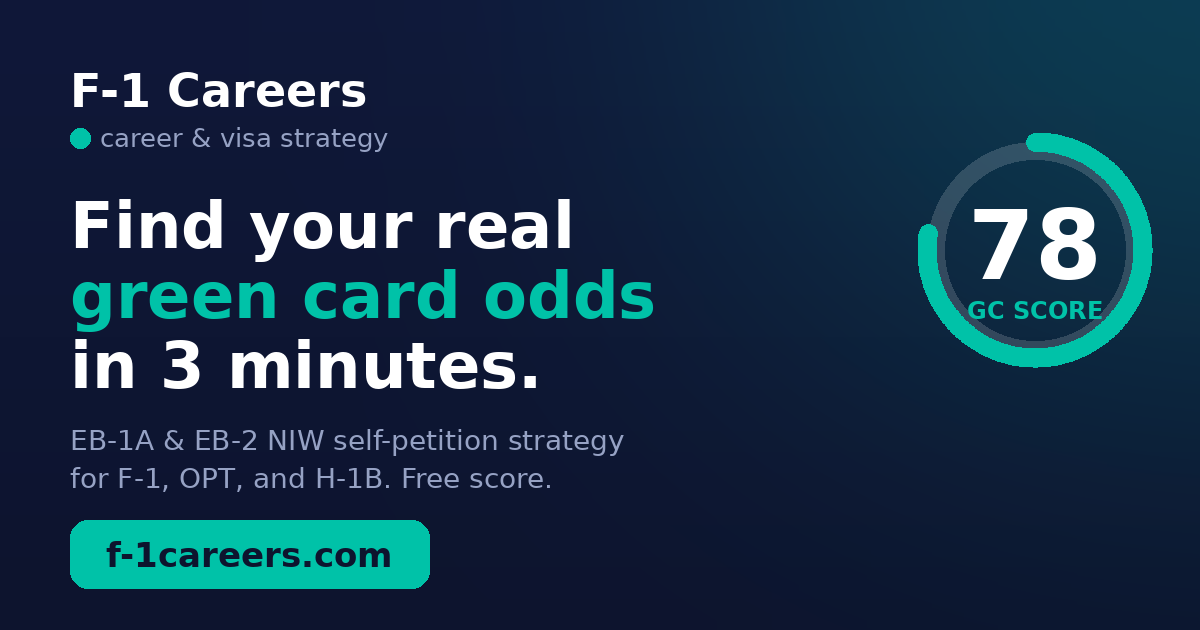
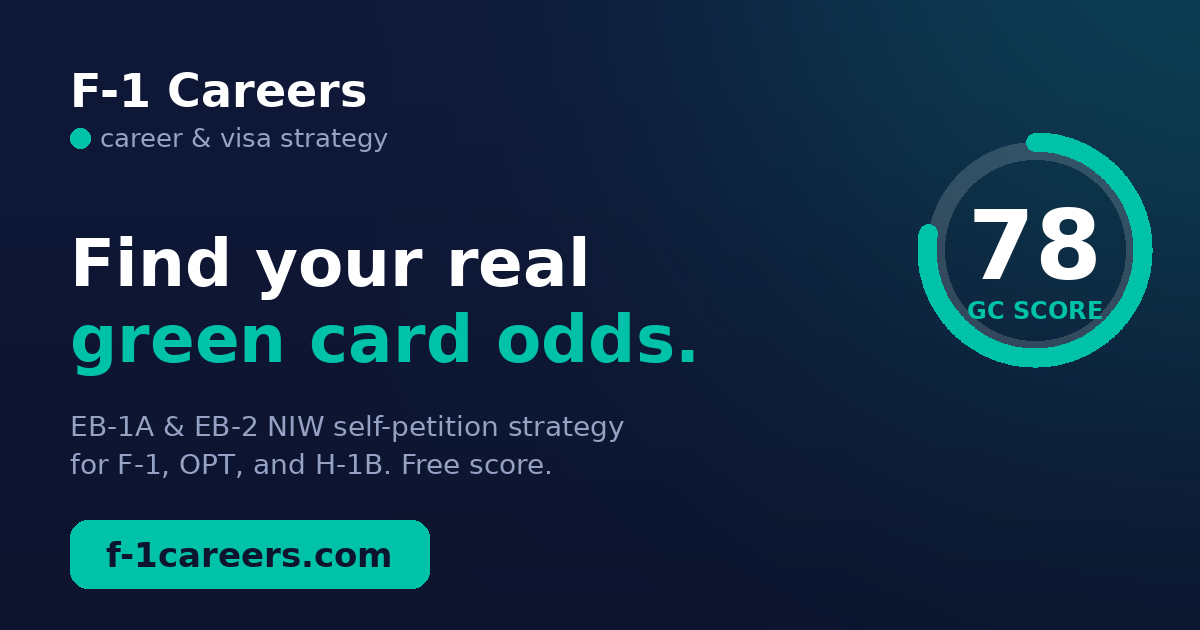
Remove time-to-result claims (3 min / 2 min / 15 min / 'in minutes') from copy, OG image, and metadata, they trivialize the platform

Changed region(s): [[0.0617, 0.3016, 0.5858, 0.6333], [0.0617, 0.6635, 0.5242, 0.7841]]

diff --git a/app/layout.tsx b/app/layout.tsx
@@ -14,7 +14,7 @@ export const metadata: Metadata = {
     default: 'F-1 Careers, Green Card Strategy for International Professionals',
     template: '%s | F-1 Careers',
   },
-  description: 'Find your real EB-1A and EB-2 NIW green card odds in minutes. Self-petition strategy for international students and professionals on F-1, OPT, and H-1B. Free score.',
+  description: 'Find your real EB-1A and EB-2 NIW green card odds. Self-petition strategy for international students and professionals on F-1, OPT, and H-1B. Free score.',
   keywords: [
     'EB-1A', 'EB-2 NIW', 'national interest waiver', 'green card', 'F-1 visa',
     'OPT', 'H-1B', 'self-petition', 'Dhanasar', 'extraordinary ability',
@@ -26,13 +26,13 @@ export const metadata: Metadata = {
     siteName: 'F-1 Careers',
     url: 'https://www.f-1careers.com',
     title: 'F-1 Careers, Green Card Strategy for International Professionals',
-    description: 'Find your real EB-1A and EB-2 NIW green card odds in minutes. Free score, built for F-1, OPT, and H-1B.',
+    description: 'Find your real EB-1A and EB-2 NIW green card odds. Free score, built for F-1, OPT, and H-1B.',
     images: [{ url: '/og.png', width: 1200, height: 630, alt: 'F-1 Careers, Green Card Strategy' }],
   },
   twitter: {
     card: 'summary_large_image',
     title: 'F-1 Careers, Green Card Strategy',
-    description: 'Find your real EB-1A and EB-2 NIW green card odds in minutes. Free score.',
+    description: 'Find your real EB-1A and EB-2 NIW green card odds. Free score.',
     images: ['/og.png'],
   },
 }

diff --git a/app/stay-score/page.tsx b/app/stay-score/page.tsx
@@ -422,7 +422,7 @@ export default function RiskScorePage() {
           </div>
           <p className="text-mid text-sm max-w-md mx-auto leading-relaxed">
             Adjustment of status is now officially discretionary. Duration of Status is ending. SEVIS terminations are being enforced.
-            This tool scores your exposure across all active risk factors, in under 2 minutes.
+            This tool scores your exposure across all active risk factors.
           </p>
         </div>
 
@@ -651,7 +651,7 @@ export default function RiskScorePage() {
               className="w-full btn-teal py-4 text-base font-bold disabled:opacity-40">
               Calculate my Risk Score →
             </button>
-            <p className="text-xs text-center text-mid">Free · No login · Under 2 minutes</p>
+            <p className="text-xs text-center text-mid">Free · No login</p>
           </div>
         )}
 

diff --git a/app/(app)/strategy/report/[id]/GeneratingView.tsx b/app/(app)/strategy/report/[id]/GeneratingView.tsx
@@ -195,7 +195,7 @@ export default function GeneratingView({ reportId, reportType }: Props) {
         <div>
           <h1 className="text-xl font-bold text-navy">Building your strategy report…</h1>
           <p className="text-sm text-mid mt-1">
-            Deep analysis of your profile · typically <strong>2–4 minutes</strong>
+            A deep, criterion-by-criterion analysis of your profile is underway. This is thorough work, please hold on.
           </p>
         </div>
       </div>

diff --git a/app/page.tsx b/app/page.tsx
@@ -408,7 +408,7 @@ export default async function Home() {
           </div>
           <div className="grid sm:grid-cols-3 gap-10">
             {[
-              { step: '01', title: 'Answer the questionnaire', body: 'Rate your evidence against each USCIS criterion. Takes about 15 minutes. Your profile data pre-fills where possible.' },
+              { step: '01', title: 'Answer the questionnaire', body: 'Rate your evidence against each USCIS criterion. Your profile data pre-fills where possible.' },
               { step: '02', title: 'Get your free preview', body: 'See your top visa pathway, overall profile strength, and a teaser of the full analysis before paying anything.' },
               { step: '03', title: 'Unlock the full report', body: 'Pay once for your full criterion breakdown, evidence map, gap analysis, and 12-month roadmap. Download as PDF.' },
             ].map(s => (